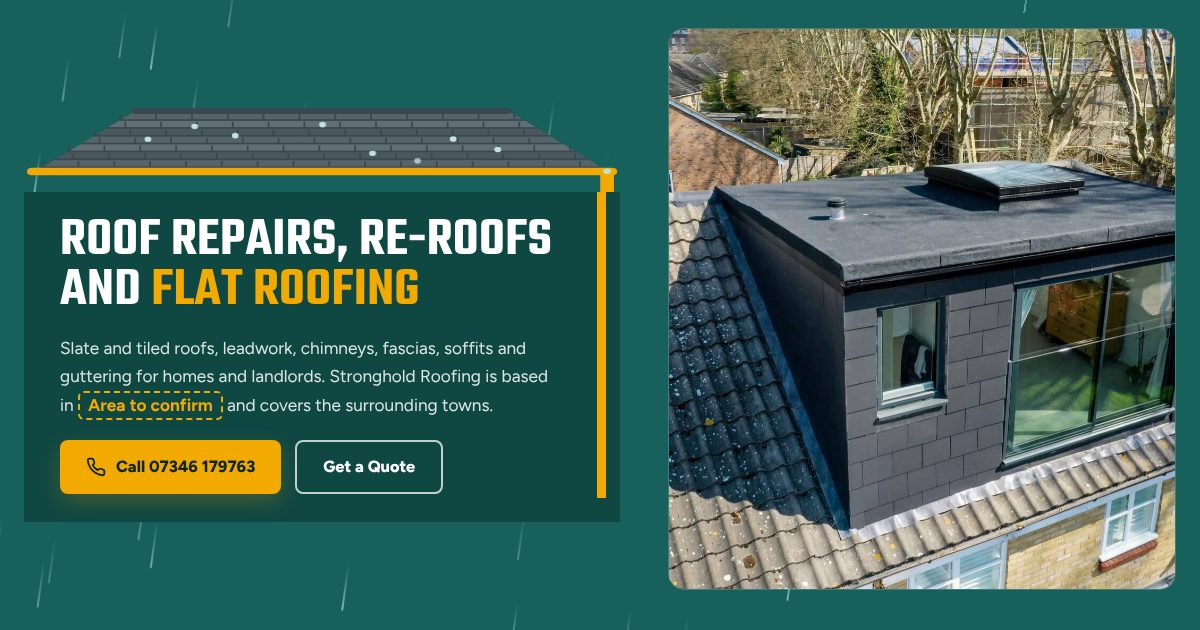
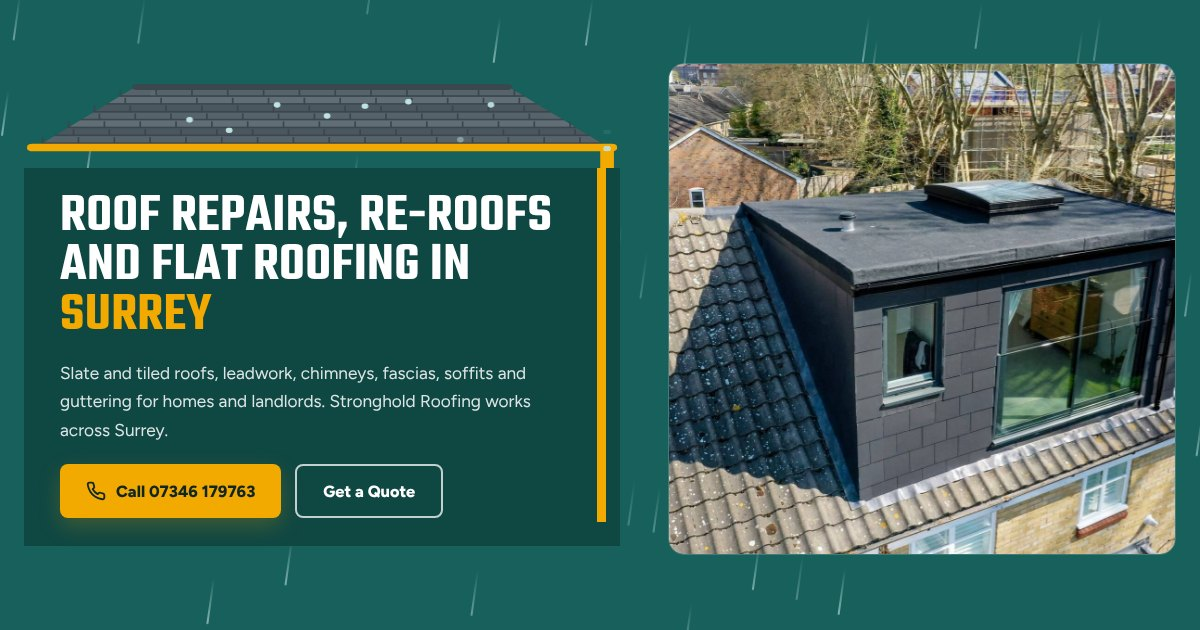
Stronghold Roofing: across Surrey in place of area placeholders

diff --git a/stronghold-roofing/index.html b/stronghold-roofing/index.html
@@ -3,13 +3,13 @@
 <head>
 <meta charset="utf-8">
 <meta name="viewport" content="width=device-width, initial-scale=1">
-<title>Roof Repairs, Re-roofs and Flat Roofing | Roofers | Stronghold Roofing</title>
-<meta name="description" content="Roof repairs, re-roofs and flat roofing from Stronghold Roofing. Slate and tiled roofs, leadwork, chimneys, fascias, soffits and guttering. Call for a quote.">
+<title>Roof Repairs, Re-roofs and Flat Roofing in Surrey | Stronghold Roofing</title>
+<meta name="description" content="Roof repairs, re-roofs and flat roofing from Stronghold Roofing. Slate and tiled roofs, leadwork, chimneys, fascias, soffits and guttering across Surrey. Call for a quote.">
 <meta name="color-scheme" content="only light">
 <link rel="icon" href="data:,">
 <meta name="theme-color" content="#17605b">
 <meta property="og:title" content="Stronghold Roofing | Your New Website">
-<meta property="og:description" content="Roof repairs, re-roofs and flat roofing. Preview of your new site">
+<meta property="og:description" content="Roof repairs, re-roofs and flat roofing in Surrey. Preview of your new site">
 <meta property="og:image" content="https://previews.construction-sites.co.uk/stronghold-roofing/og.jpg">
 <meta property="og:url" content="https://previews.construction-sites.co.uk/stronghold-roofing/">
 <meta property="og:type" content="website">
@@ -22,7 +22,7 @@
   gtag('config', 'G-WG747WXNB6');
 </script>
 <script type="application/ld+json">
-{"@context":"https://schema.org","@type":"RoofingContractor","name":"Stronghold Roofing","description":"Roof repairs, re-roofs and flat roofing: slate and tiled roofs, leadwork, chimneys, fascias, soffits and guttering.","url":"https://previews.construction-sites.co.uk/stronghold-roofing/"}
+{"@context":"https://schema.org","@type":"RoofingContractor","name":"Stronghold Roofing","description":"Roof repairs, re-roofs and flat roofing: slate and tiled roofs, leadwork, chimneys, fascias, soffits and guttering.","areaServed":"Surrey","url":"https://previews.construction-sites.co.uk/stronghold-roofing/"}
 </script>
 <link rel="preconnect" href="https://fonts.googleapis.com">
 <link rel="preconnect" href="https://fonts.gstatic.com" crossorigin>
@@ -151,7 +151,7 @@ section{padding:96px 0}
 .rv small{font-weight:700;color:var(--muted);font-size:.9rem}
 
 .areas-list{display:flex;flex-wrap:wrap;gap:12px;list-style:none;margin-top:6px}
-.areas-list li{padding:11px 20px;border-radius:999px;border:2px dashed rgba(23,96,91,.45);font-weight:700;color:var(--teal)}
+.areas-list li{padding:11px 20px;border-radius:999px;border:2px solid rgba(23,96,91,.45);font-weight:700;color:var(--teal)}
 .areas p{max-width:620px;margin-bottom:24px}
 
 .cta-band{background:var(--amber);padding:0;position:relative}
@@ -310,8 +310,8 @@ footer p{max-width:320px;margin-top:12px}
     <div class="house">
       <svg class="roof" id="heroRoof" viewBox="0 0 600 150" preserveAspectRatio="none" aria-hidden="true"></svg>
       <div class="wall">
-        <h1 class="fade1">Roof Repairs, <span class="nw">Re-roofs</span> and <span class="key">Flat Roofing</span></h1>
-        <p class="lede fade2">Slate and tiled roofs, leadwork, chimneys, fascias, soffits and guttering for homes and landlords. Stronghold Roofing is based in <span class="tbc">Area to confirm</span> and covers the surrounding towns.</p>
+        <h1 class="fade1">Roof Repairs, <span class="nw">Re-roofs</span> and Flat Roofing in <span class="key">Surrey</span></h1>
+        <p class="lede fade2">Slate and tiled roofs, leadwork, chimneys, fascias, soffits and guttering for homes and landlords. Stronghold Roofing works across Surrey.</p>
         <div class="hero-cta fade3">
           <a href="#contact" class="btn btn-amber js-call" id="heroCall"><svg viewBox="0 0 24 24" fill="none" stroke="#102624" stroke-width="2.2" stroke-linecap="round" stroke-linejoin="round"><path d="M22 16.9v3a2 2 0 0 1-2.2 2 19.8 19.8 0 0 1-8.6-3.1 19.5 19.5 0 0 1-6-6A19.8 19.8 0 0 1 2.1 4.2 2 2 0 0 1 4.1 2h3a2 2 0 0 1 2 1.7c.1.9.4 1.8.7 2.7a2 2 0 0 1-.5 2.1L8 9.8a16 16 0 0 0 6 6l1.3-1.3a2 2 0 0 1 2.1-.4c.9.3 1.8.6 2.7.7a2 2 0 0 1 1.7 2z"/></svg><span>Call us</span></a>
           <a href="#contact" class="btn btn-line">Get a Quote</a>
@@ -383,9 +383,9 @@ footer p{max-width:320px;margin-top:12px}
   <div class="wrap">
     <h2 class="reveal">Areas We <span class="key">Cover</span></h2>
     <span class="gutter-rule reveal"></span>
-    <p class="reveal">Stronghold Roofing works on homes and rental properties across the local area and the surrounding towns and villages.</p>
+    <p class="reveal">Stronghold Roofing works on homes and rental properties across Surrey.</p>
     <ul class="areas-list reveal">
-      <li>Area to confirm</li><li>Area to confirm</li><li>Area to confirm</li><li>Area to confirm</li><li>Area to confirm</li>
+      <li>Across Surrey</li>
     </ul>
   </div>
 </section>
@@ -409,7 +409,7 @@ footer p{max-width:320px;margin-top:12px}
       <div class="info">
         <a href="#contact" class="js-call"><span class="ic"><svg viewBox="0 0 24 24" fill="none" stroke="#fff" stroke-width="2" stroke-linecap="round" stroke-linejoin="round"><path d="M22 16.9v3a2 2 0 0 1-2.2 2 19.8 19.8 0 0 1-8.6-3.1 19.5 19.5 0 0 1-6-6A19.8 19.8 0 0 1 2.1 4.2 2 2 0 0 1 4.1 2h3a2 2 0 0 1 2 1.7c.1.9.4 1.8.7 2.7a2 2 0 0 1-.5 2.1L8 9.8a16 16 0 0 0 6 6l1.3-1.3a2 2 0 0 1 2.1-.4c.9.3 1.8.6 2.7.7a2 2 0 0 1 1.7 2z"/></svg></span><span><small>Phone</small><span class="js-phone-text">&nbsp;</span></span></a>
         <a href="#contact" class="js-email"><span class="ic"><svg viewBox="0 0 24 24" fill="none" stroke="#fff" stroke-width="2" stroke-linecap="round" stroke-linejoin="round"><rect x="2" y="4" width="20" height="16" rx="2"/><path d="m22 6-10 7L2 6"/></svg></span><span><small>Email</small><span class="js-email-text">&nbsp;</span></span></a>
-        <div><span class="ic"><svg viewBox="0 0 24 24" fill="none" stroke="#fff" stroke-width="2" stroke-linecap="round" stroke-linejoin="round"><path d="M12 22s-8-6.6-8-13a8 8 0 0 1 16 0c0 6.4-8 13-8 13z"/><circle cx="12" cy="9" r="3"/></svg></span><span><small>Based in</small><span class="tbc">Area to confirm</span></span></div>
+        <div><span class="ic"><svg viewBox="0 0 24 24" fill="none" stroke="#fff" stroke-width="2" stroke-linecap="round" stroke-linejoin="round"><path d="M12 22s-8-6.6-8-13a8 8 0 0 1 16 0c0 6.4-8 13-8 13z"/><circle cx="12" cy="9" r="3"/></svg></span><span><small>Covering</small><span>Across Surrey</span></span></div>
       </div>
     </div>
     <form class="reveal" action="/api/enquiry" method="POST">
